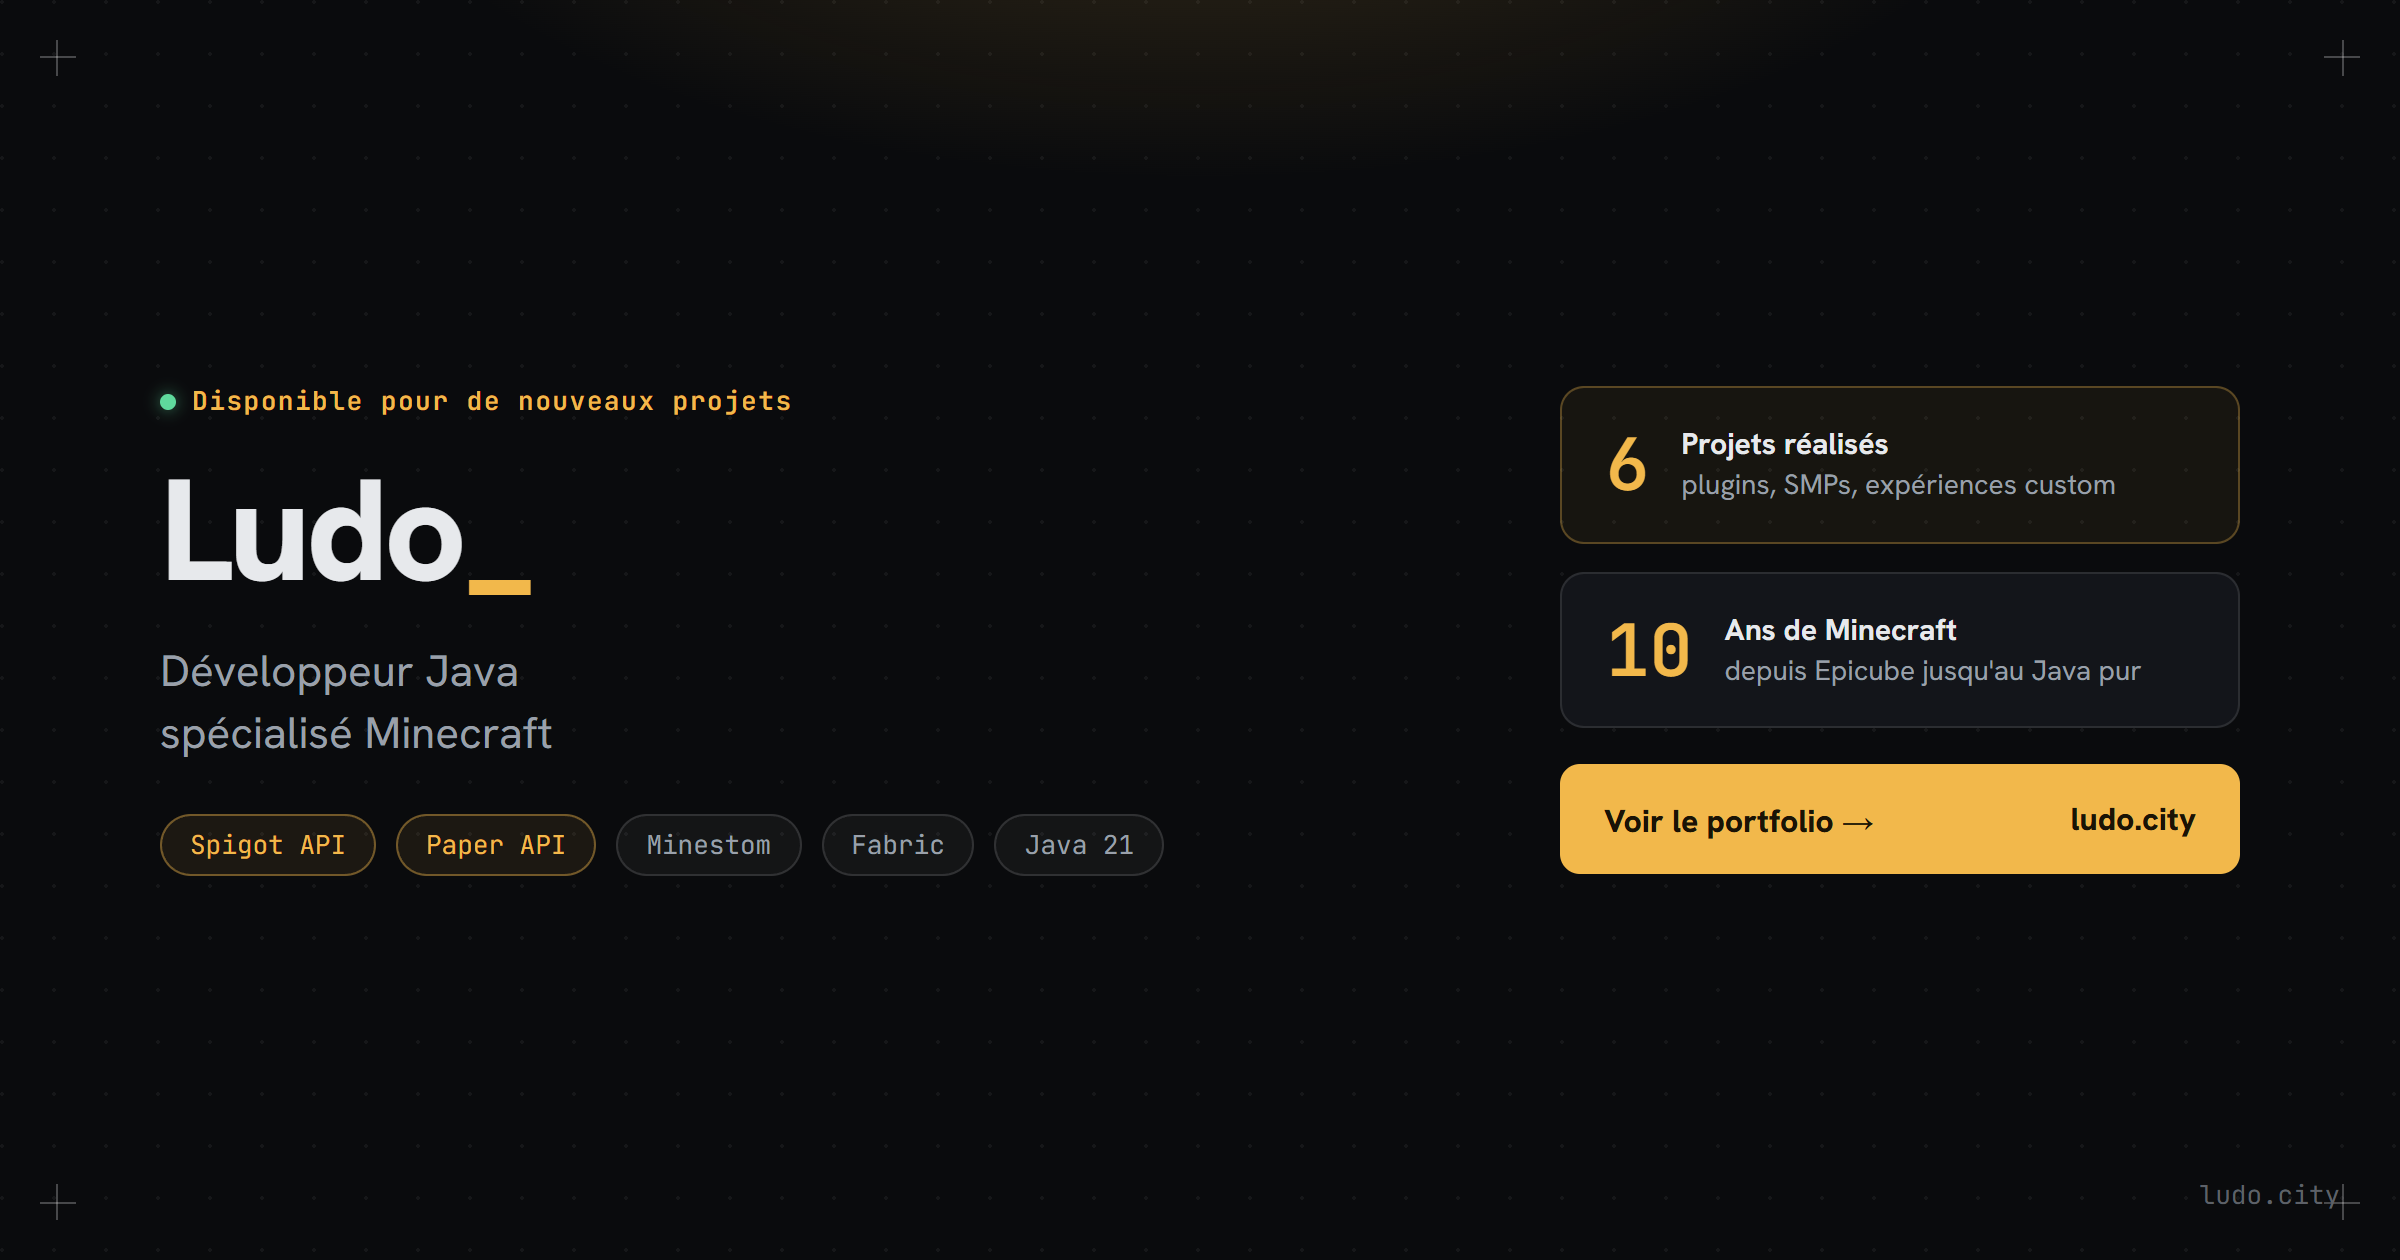
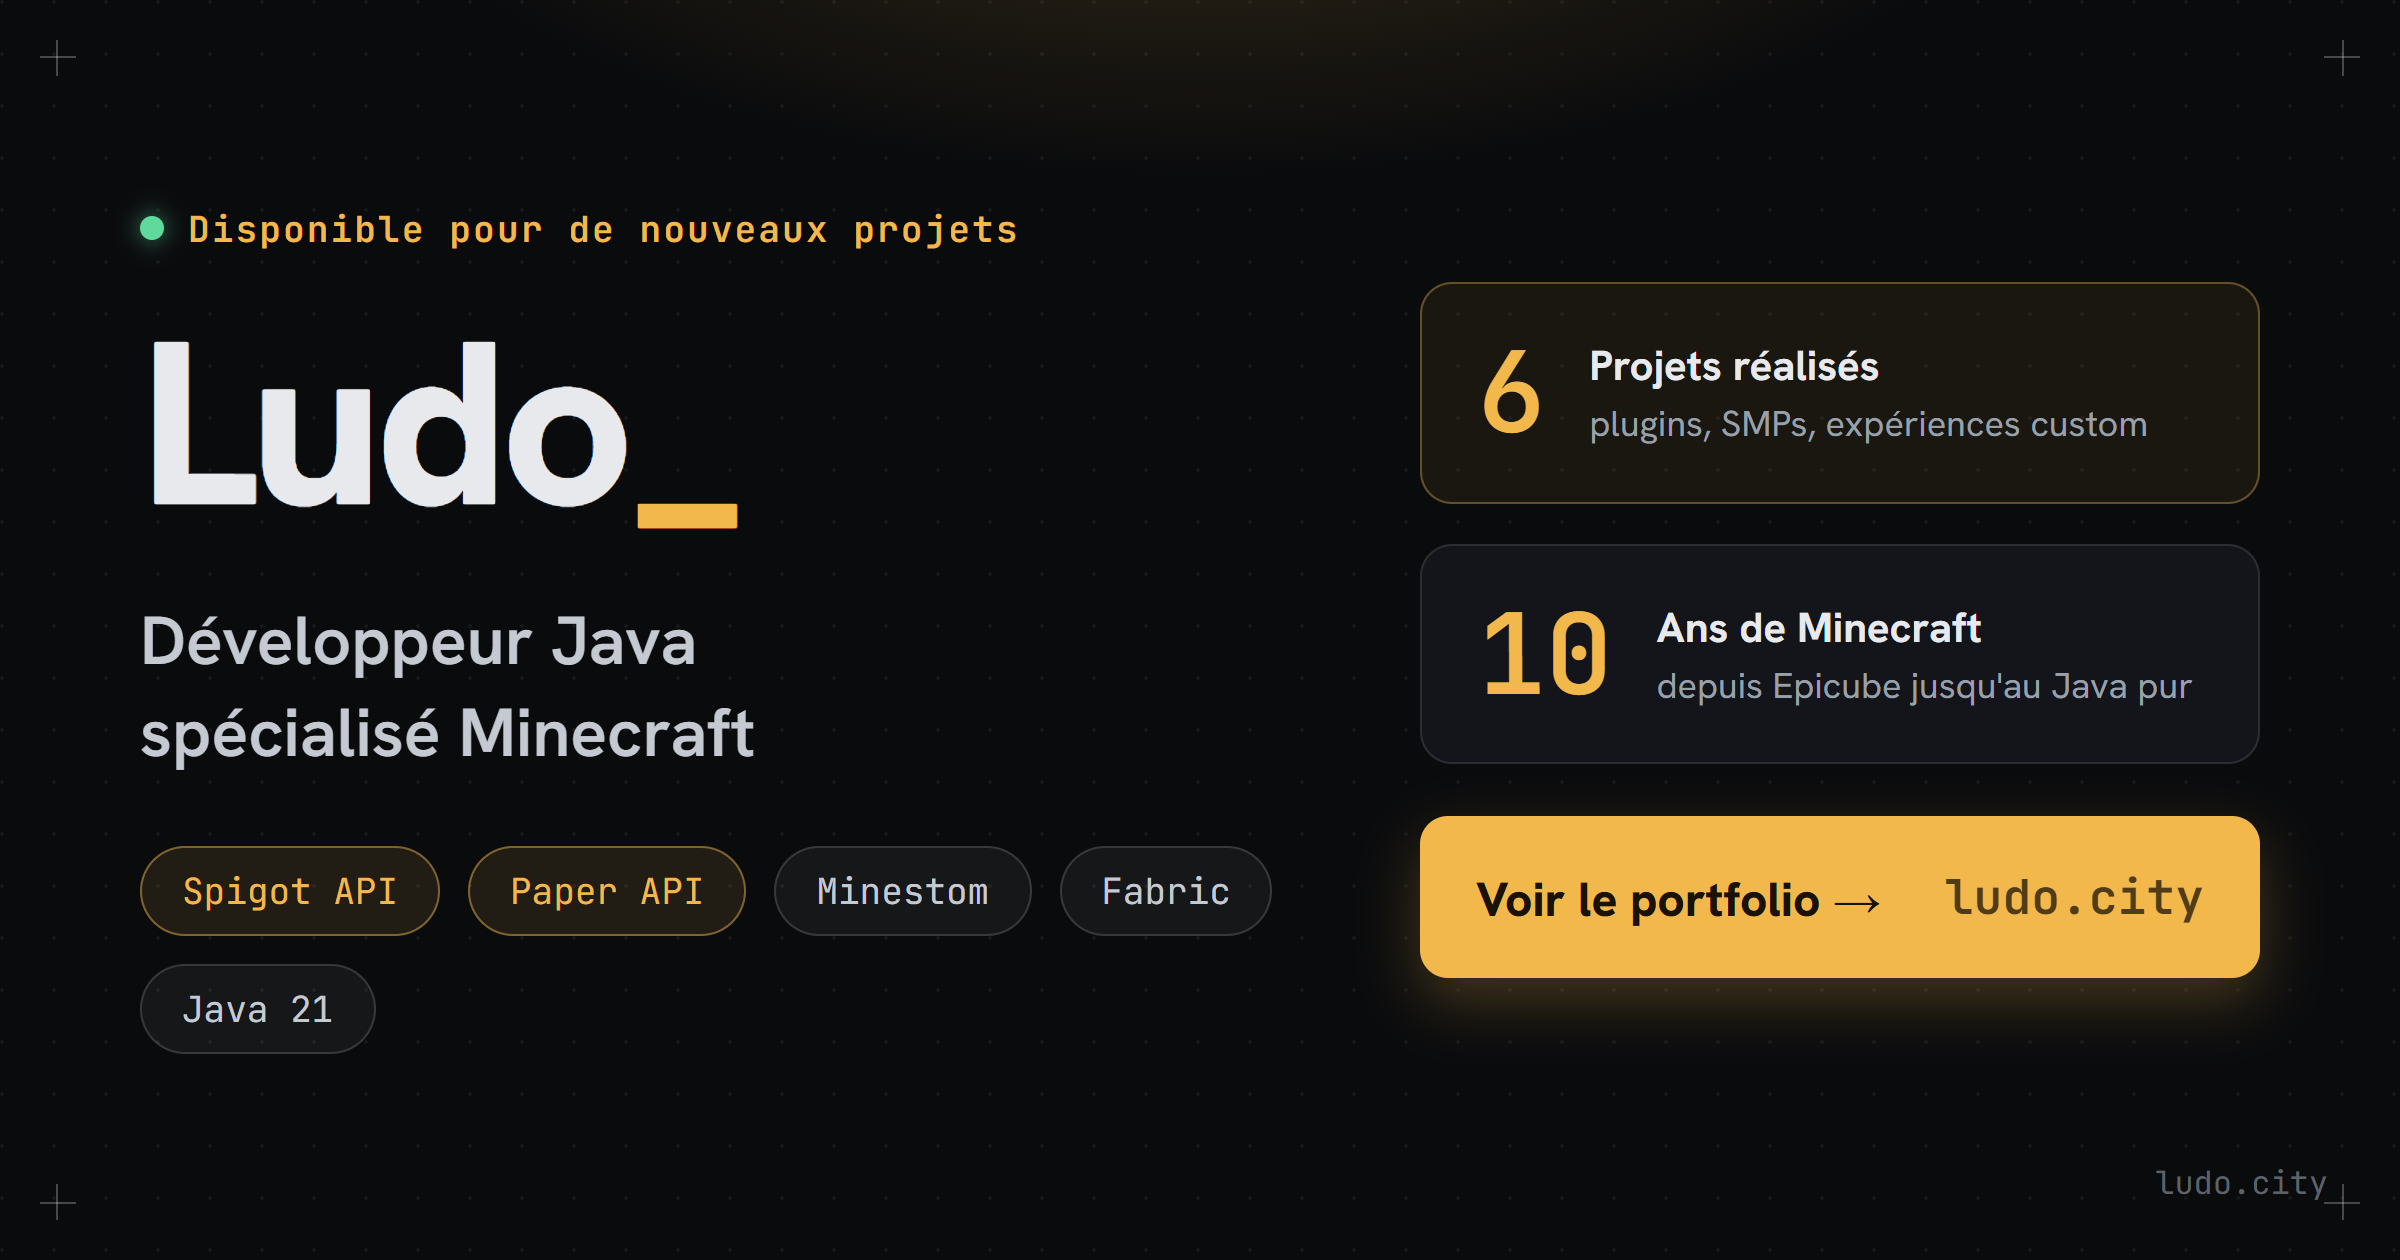
Update Open Graph meta tags and add OG preview page for enhanced social sharing

diff --git a/og-preview.html b/og-preview.html
@@ -57,39 +57,39 @@
     width: 100%; height: 100%;
     display: flex;
     align-items: center;
-    padding: 0 80px;
-    gap: 80px;
+    padding: 0 70px;
+    gap: 60px;
   }
 
   /* left */
   .left {
-    flex: 1;
+    flex: 1.15;
     display: flex;
     flex-direction: column;
-    gap: 20px;
+    gap: 28px;
   }
 
   .tag {
     font-family: 'JetBrains Mono', monospace;
-    font-size: 13px;
+    font-size: 18px;
     color: #f2b84b;
     font-weight: 600;
     letter-spacing: 0.06em;
     display: flex;
     align-items: center;
-    gap: 8px;
+    gap: 12px;
   }
   .tag::before {
     content: '';
     display: inline-block;
-    width: 8px; height: 8px;
+    width: 12px; height: 12px;
     border-radius: 50%;
     background: #5fd99c;
-    box-shadow: 0 0 8px rgba(95,217,156,0.6);
+    box-shadow: 0 0 12px rgba(95,217,156,0.7);
   }
 
   .name {
-    font-size: 72px;
+    font-size: 116px;
     font-weight: 800;
     line-height: 1;
     letter-spacing: -0.03em;
@@ -97,50 +97,50 @@
   .name span { color: #f2b84b; }
 
   .role {
-    font-size: 22px;
-    color: #9aa0aa;
-    font-weight: 500;
-    line-height: 1.4;
+    font-size: 34px;
+    color: #c5cad2;
+    font-weight: 600;
+    line-height: 1.35;
   }
 
   .pills {
     display: flex;
-    gap: 10px;
-    margin-top: 4px;
+    gap: 14px;
+    margin-top: 6px;
     flex-wrap: wrap;
   }
   .pill {
     font-family: 'JetBrains Mono', monospace;
-    font-size: 13px;
-    padding: 6px 14px;
+    font-size: 18px;
+    padding: 10px 20px;
     border-radius: 999px;
-    border: 1px solid rgba(255,255,255,0.12);
-    color: #9aa0aa;
-    background: rgba(255,255,255,0.04);
+    border: 1px solid rgba(255,255,255,0.14);
+    color: #c5cad2;
+    background: rgba(255,255,255,0.05);
   }
-  .pill.accent { border-color: rgba(242,184,75,0.4); color: #f2b84b; background: rgba(242,184,75,0.08); }
+  .pill.accent { border-color: rgba(242,184,75,0.45); color: #f2b84b; background: rgba(242,184,75,0.1); }
 
   /* right */
   .right {
-    width: 340px;
+    width: 420px;
     display: flex;
     flex-direction: column;
-    gap: 14px;
+    gap: 20px;
   }
 
   .stat-card {
     background: #13151a;
     border: 1px solid rgba(255,255,255,0.10);
-    border-radius: 12px;
-    padding: 18px 22px;
+    border-radius: 16px;
+    padding: 26px 28px;
     display: flex;
     align-items: center;
-    gap: 16px;
+    gap: 22px;
   }
-  .stat-card.highlight { border-color: rgba(242,184,75,0.3); background: rgba(242,184,75,0.06); }
+  .stat-card.highlight { border-color: rgba(242,184,75,0.35); background: rgba(242,184,75,0.07); }
 
   .stat-num {
-    font-size: 36px;
+    font-size: 56px;
     font-weight: 800;
     color: #f2b84b;
     line-height: 1;
@@ -148,38 +148,42 @@
     flex-shrink: 0;
   }
   .stat-label {
-    font-size: 14px;
+    font-size: 18px;
     color: #9aa0aa;
     line-height: 1.4;
   }
-  .stat-label strong { color: #e7e9ec; display: block; font-size: 15px; }
+  .stat-label strong { color: #e7e9ec; display: block; font-size: 21px; margin-bottom: 2px; }
 
   .cta-row {
-    margin-top: 4px;
+    margin-top: 6px;
     background: #f2b84b;
-    border-radius: 10px;
-    padding: 16px 22px;
+    border-radius: 14px;
+    padding: 24px 28px;
     display: flex;
     align-items: center;
     justify-content: space-between;
+    box-shadow: 0 12px 30px rgba(242,184,75,0.25);
   }
   .cta-row span {
     font-weight: 800;
-    font-size: 16px;
+    font-size: 24px;
     color: #1a1305;
   }
   .cta-arrow {
-    font-size: 22px;
+    font-family: 'JetBrains Mono', monospace;
+    font-size: 17px;
+    font-weight: 700;
     color: #1a1305;
+    opacity: 0.75;
   }
 
   /* domain badge */
   .domain {
     position: absolute;
-    bottom: 24px;
-    right: 30px;
+    bottom: 28px;
+    right: 36px;
     font-family: 'JetBrains Mono', monospace;
-    font-size: 13px;
+    font-size: 16px;
     color: #5d6168;
     z-index: 2;
   }